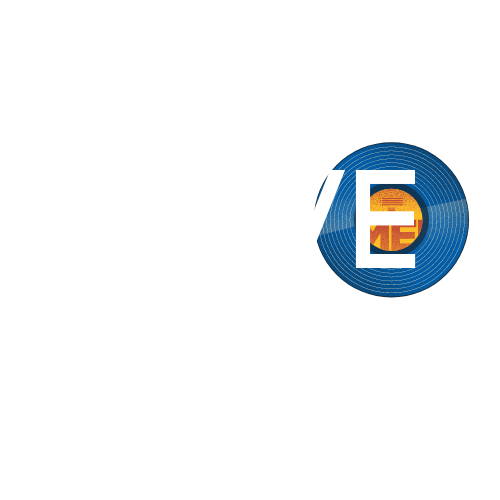
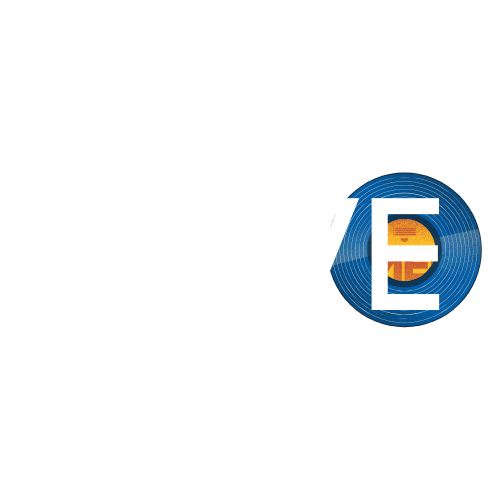
collection

Changed region(s): [[0.63, 0.27, 0.99, 0.66]]

diff --git a/src/Components/Navbar.jsx b/src/Components/Navbar.jsx
@@ -95,11 +95,11 @@ export default function Navbar() {
 
             <div className={`mobile ${isNavOpen ? 'nav-open' : ''}`}>
                 <button className={`nav-button ${isMenuButtonOpen ? 'close-button' : ''}`} onClick={toggleNav}>
-                <img src={isMenuButtonOpen ? 'close.png' : 'menu.png'} alt={isMenuButtonOpen ? 'Close' : 'Menu'}/>
+                <img src={isMenuButtonOpen ? 'close.png' : 'menu.jpg'} alt={isMenuButtonOpen ? 'Close' : 'Menu'}/>
                 </button>
 
                 <div className="fixed-top dineuron-menu">
-                <img className="mobile-popup-img" src='w.png' alt='alt'/>
+                <img className="mobile-popup-img" src='w2.png' alt='alt'/>
                   <div className="flex-center p-5">
                     <ul className="nav flex-column">
                       <li className="nav-item delay-1"><a onClick={closeNav} className="nav-link" href="#Home">Ana sayfa</a></li>

diff --git a/src/Components/Navbar.css b/src/Components/Navbar.css
@@ -112,8 +112,12 @@ b{
     .mobile-popup-img{
       width: 20%;
       display: flex;
-      margin-top: 5.5%;
+      /* margin-top: 5.5%; */
       margin-left: 7%;
+    }
+
+    .flex-column{
+      gap: 50px;
     }
 
     .mobile-brand{
